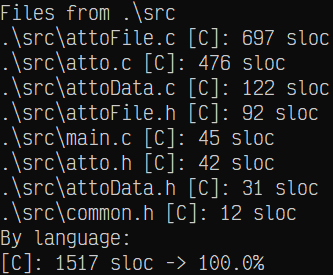
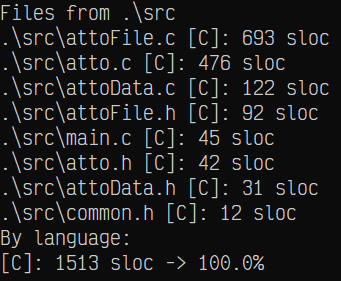
Update sloc

Changed region(s): [[0.0, 0.0, 0.991, 1.0], [0.4805, 0.9018, 0.8108, 0.9891]]

diff --git a/src/w_profiler/atto.c b/src/w_profiler/atto.c
@@ -114,11 +114,11 @@ bool atto_loop(attoData_t * restrict peditor)
 			wchar_t tempstr[MAX_STATUS];
 			bool draw = true;
 
-			if (wVirtKey == VK_ESCAPE || key == sac_Ctrl_Q)	// Exit on Escape or Ctrl+Q
+			if ((wVirtKey == VK_ESCAPE) || (key == sac_Ctrl_Q))	// Exit on Escape or Ctrl+Q
 			{
 				return false;
 			}
-			else if (waitingEnc)
+			else if (waitingEnc && (key != sac_Ctrl_E))
 			{
 				bool done = true;
 				switch (wVirtKey)
@@ -152,7 +152,7 @@ bool atto_loop(attoData_t * restrict peditor)
 
 				waitingEnc = false;
 			}
-			else if (boolGet(keybuffer, sac_Ctrl_R) && !boolGet(prevkeybuffer, sac_Ctrl_R))	// Reload file
+			else if ((key = sac_Ctrl_R) && !boolGet(prevkeybuffer, sac_Ctrl_R))	// Reload file
 			{
 				const wchar_t * res;
 				if ((res = attoFile_read(pfile)) != NULL)
@@ -171,7 +171,7 @@ bool atto_loop(attoData_t * restrict peditor)
 				}
 				attoData_refresh(peditor);
 			}
-			else if (boolGet(keybuffer, sac_Ctrl_S) && !boolGet(prevkeybuffer, sac_Ctrl_S))	// Save file
+			else if ((key = sac_Ctrl_S) && !boolGet(prevkeybuffer, sac_Ctrl_S))	// Save file
 			{
 				int32_t saved = attoFile_write(pfile);
 				switch (saved)
@@ -192,7 +192,7 @@ bool atto_loop(attoData_t * restrict peditor)
 					swprintf_s(tempstr, MAX_STATUS, L"Wrote %d bytes", saved);
 				}
 			}
-			else if (boolGet(keybuffer, sac_Ctrl_E) && !boolGet(prevkeybuffer, sac_Ctrl_E))
+			else if ((key = sac_Ctrl_E) && !boolGet(prevkeybuffer, sac_Ctrl_E))
 			{
 				waitingEnc = true;
 				swprintf_s(tempstr, MAX_STATUS, L"Waiting for EOL combination (F = CRLF, L = LF, C = CR)...");

diff --git a/README.md b/README.md
@@ -9,7 +9,7 @@
 Yet another text editor ought to be as simple/small as possible (following the KISS principle). It is purely written in C and
 it's designed to be used solely on Microsoft Windows (relies on Win32 API). MinGW GCC has been used as the compiler.
 
-Currently, my other tool [slocWin32](https://github.com/makuke1234/slocWin32) reports only **1517** lines of code for this editor:
+Currently, my other tool [slocWin32](https://github.com/makuke1234/slocWin32) reports only **1513** lines of code for this editor:
 
 ![SLOC](./images/sloc.png)
 
